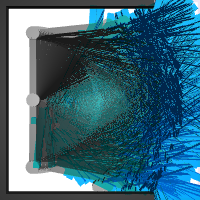
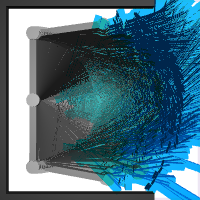
add markers to the peg

diff --git a/ge_world/peg_2d.py b/ge_world/peg_2d.py
@@ -42,8 +42,9 @@ class Peg2DEnv(mujoco_env.MujocoEnv):
                  obj_low=[-np.pi / 2, -np.pi + 0.2, -np.pi + 0.2],
                  obj_high=[np.pi / 2, np.pi - 0.2, np.pi - 0.2],
                  goal_low=-0.02, goal_high=0.02,
-                 act_scale=1, discrete=False, id_less=False,
+                 act_scale=1, discrete=False,
                  free=False,  # whether to move the goal out of the way
+                 view_mode="grey",
                  done_on_goal=False):
         """
 
@@ -59,19 +60,8 @@ class Peg2DEnv(mujoco_env.MujocoEnv):
         if self.discrete:
             set_spaces = False
             actions = [-act_scale, 0, act_scale]
-            if id_less:
-                self.a_dict = [(a, b, c)
-                               for a in actions
-                               for b in actions
-                               for c in actions
-                               if not (a == 0 and b == 0 and c == 0)]
-                self.action_space = spaces.Discrete(26)
-            else:
-                self.a_dict = [(a, b, c)
-                               for a in actions
-                               for b in actions
-                               for c in actions]
-                self.action_space = spaces.Discrete(27)
+            self.a_dict = actions
+            self.action_space = [spaces.Discrete(3) for _ in range(3)]
         else:
             set_spaces = True
 
@@ -80,7 +70,6 @@ class Peg2DEnv(mujoco_env.MujocoEnv):
         xml_path = os.path.join(os.path.dirname(os.path.realpath(__file__)), f"assets/peg-2d.xml")
 
         mujoco_env.MujocoEnv.__init__(self, xml_path, frame_skip=frame_skip, set_spaces=set_spaces)
-        # utils.EzPickle.__init__(self)
 
         # note: Experimental, hard-coded
         self.width = 64
@@ -97,10 +86,15 @@ class Peg2DEnv(mujoco_env.MujocoEnv):
         if 'goal_img' in obs_keys:
             _['goal_img'] = spaces.Box(
                 low=np.zeros((1, self.width, self.height)), high=np.ones((1, self.width, self.height)))
+        if 'a' in obs_keys:
+            _['a'] = spaces.Box(
+                low=-act_scale * np.ones((3, self.width, self.height)),
+                high=act_scale * np.ones((3, self.width, self.height)))
         self.obj_low = obj_low
         self.obj_high = obj_high
         self.goal_low = goal_low
         self.goal_high = goal_high
+        self.view_mode = view_mode
         self.observation_space = spaces.Dict(_)
         self.obs_keys = obs_keys
         self.free = free
@@ -124,7 +118,8 @@ class Peg2DEnv(mujoco_env.MujocoEnv):
             qpos[-1:] = 1
         self.set_state(qpos, qvel)
         if self.discrete:
-            a = np.array([*self.a_dict[int(a)], self.goal])
+            a = [self.a_dict[int(a_i)] for a_i in a]
+        a = np.array([*a, *self.goal])
         self.do_simulation(a, self.frame_skip)
         # note: return observation *after* simulation. This is how DeepMind Lab does it.
         ob = self._get_obs()
@@ -135,7 +130,7 @@ class Peg2DEnv(mujoco_env.MujocoEnv):
 
         # offer raw action to agent
         if 'a' in self.obs_keys:
-            ob['a'] = a
+            ob['a'] = a[:-1].copy()
 
         return ob, reward, done, dict(dist=dist, success=float(done))
 
@@ -206,7 +201,10 @@ class Peg2DEnv(mujoco_env.MujocoEnv):
 
         self.set_state(qpos, self.sim.data.qvel)
 
-        self.goal_img = self.render('grey', width=self.width, height=self.height).transpose(0, 1)[None, ...] / 255
+        img = self.render(self.view_mode, width=self.width, height=self.height)
+        if self.view_mode == "grey":
+            img = img[..., None]
+        self.goal_img = img.transpose(2, 0, 1) / 255
 
         # now reset.
         self.sim.data.qpos[:] = np.concatenate([x, [1] if self.free else goal])
@@ -226,8 +224,11 @@ class Peg2DEnv(mujoco_env.MujocoEnv):
             goal = qpos[3:].copy()
             qpos[3:] = [1].copy()  # move slot out of frame
             self.set_state(qpos, self.sim.data.qvel)
-            # todo: should use render('gray') instead.
-            obs['img'] = self.render('grey', width=self.width, height=self.height).transpose(0, 1)[None, ...] / 255
+
+            img = self.render(self.view_mode, width=self.width, height=self.height)
+            if self.view_mode == "grey":
+                img = img[..., None]
+            obs['img'] = img.transpose(2, 0, 1) / 255
             qpos[3:] = goal
             self.set_state(qpos, self.sim.data.qvel)
         if 'goal' in self.obs_keys:
@@ -237,6 +238,7 @@ class Peg2DEnv(mujoco_env.MujocoEnv):
 
         return obs
 
+
 if __name__ == "__main__":
     import gym
     from ml_logger import logger
@@ -244,9 +246,11 @@ if __name__ == "__main__":
     from tqdm import trange
 
     # env = Peg2DEnv(discrete=True, id_less=False, obs_keys=["x", 'img'])
-    # env_id = "Peg2DImgDiscreteIdLess-v0"
-    env_id = "Peg2DFreeImgDiscreteIdLess-v0"
+    # env_id = "Peg2DImgDiscrete-v0"
+    env_id = "Peg2DFreeImgDiscrete-v0"
     env = gym.make(env_id)
+    seed = 100
+    env.seed(seed)
 
     frames = []
 
@@ -254,20 +258,22 @@ if __name__ == "__main__":
 
     for i in trange(100):
         env.reset()
-        for step in range(10):
+        for step in range(4):
             frame = env.render('rgb', width=200, height=200)
-            act = np.random.randint(low=0, high=26)
+            act = np.random.randint(low=0, high=2, size=3)
             # act = 13
             obs, reward, done, info = env.step(act)
             if i == 0:
-                logger.log_image(1 - obs['img'][0], key=f"../figures/{env_id}_img.png")
-                logger.log_image(1 - obs['goal_img'][0], key=f"../figures/{env_id}_goal_img.png")
+                logger.log_image(obs['img'].transpose(1, 2, 0), key=f"../figures/{env_id}_img.png")
+                logger.log_image(obs['goal_img'].transpose(1, 2, 0), key=f"../figures/{env_id}_goal_img.png")
                 logger.log_image(frame, key=f"../figures/{env_id}.png")
+            else:
+                env.unwrapped.obs_keys = ["img"]
 
             frames.append(frame)
 
     stack = np.stack(frames)
-    logger.log_image(stack.min(0), key=f"../figures/{env_id}_spread.png")
+    logger.log_image(stack.min(0), key=f"../figures/{seed}/{env_id}_spread.png")
 
     print('done rendering!')
 
@@ -276,14 +282,16 @@ else:
 
     # note: kwargs are not passed in to the constructor when entry_point is a function.
     register(
-        id="Peg2DImgDiscreteIdLess-v0",
+        id="Peg2DImgDiscrete-v0",
         entry_point=Peg2DEnv,
-        kwargs=dict(discrete=True, obs_keys=['x', 'goal', 'img', 'goal_img']),
+        kwargs=dict(discrete=True, view_mode='rgb',
+                    obs_keys=['x', 'goal', 'img', 'goal_img', 'a']),
         max_episode_steps=1000,
     )
     register(
-        id="Peg2DFreeImgDiscreteIdLess-v0",
+        id="Peg2DFreeImgDiscrete-v0",
         entry_point=Peg2DEnv,
-        kwargs=dict(discrete=True, free=True, obs_keys=['x', 'goal', 'img', 'goal_img']),
+        kwargs=dict(discrete=True, view_mode='rgb', free=True,
+                    obs_keys=['x', 'goal', 'img', 'goal_img', 'a']),
         max_episode_steps=1000,
     )
